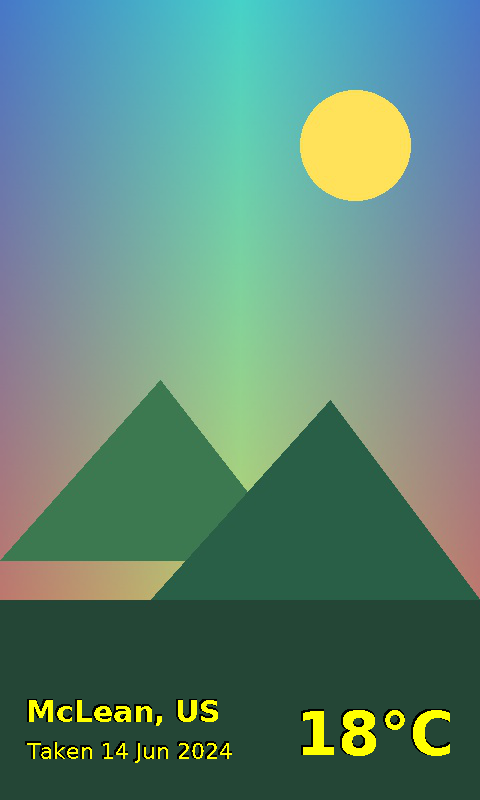
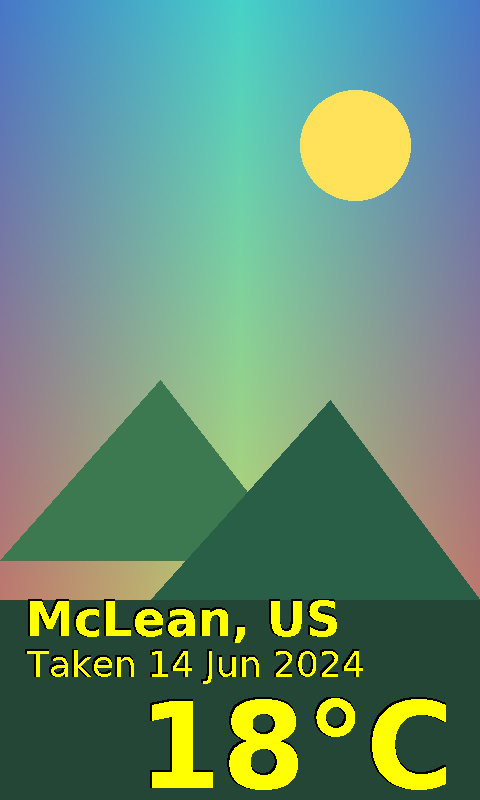
Enlarge footer fonts and install DejaVu on the Pi
- Place 48 px, date 36 px and temperature 120 px, all yellow.
- Use a taller 220 px footer area, full-width metadata and a bottom-aligned
  temperature.
- Install fonts-dejavu-core in install.sh so the Pi does not fall back to
  Pillow's tiny bitmap font.
- Update docs, screenshot and footer-height test.

Changed region(s): [[0.0312, 0.75, 0.9375, 1.0]]

diff --git a/photoframe/photoframe.py b/photoframe/photoframe.py
@@ -68,7 +68,7 @@ DEFAULT_CONFIG = {
     "state_dir": ".state",
     "refresh_minutes": 20,
     "display": {"rotate": 90, "saturation": 0.5},
-    "footer": {"height": 120, "outline": True},
+    "footer": {"height": 220, "outline": True},
     "fonts": {"bold": "", "regular": ""},
     "metadata": {
         "reverse_geocode": True,
@@ -235,11 +235,11 @@ def load_fonts(config):
     bold_path = _first_existing([config["fonts"].get("bold"), *BOLD_FONT_CANDIDATES])
     regular_path = _first_existing([config["fonts"].get("regular"), *REGULAR_FONT_CANDIDATES])
     if bold_path is None or regular_path is None:
-        LOG.warning("No TrueType font found; falling back to a very small built-in font")
+        LOG.warning("No TrueType font found; using a tiny fallback. Install fonts-dejavu-core.")
     return Fonts(
-        place=_load_font(bold_path, 30),
-        date=_load_font(regular_path, 22),
-        temp=_load_font(bold_path, 60),
+        place=_load_font(bold_path, 48),
+        date=_load_font(regular_path, 36),
+        temp=_load_font(bold_path, 120),
         placeholder_title=_load_font(bold_path, 30),
         placeholder_body=_load_font(regular_path, 17),
         placeholder_path=_load_font(regular_path, 15),
@@ -473,12 +473,12 @@ def validate_config(config):
 
     footer = _ensure_dict(config, "footer")
     try:
-        footer_height = int(footer.get("height", 120))
+        footer_height = int(footer.get("height", 220))
     except (TypeError, ValueError):
-        footer_height = 120
-    if footer_height != 0 and footer_height < 100:
-        LOG.warning("footer.height must be 0 or at least 100; using 120")
-        footer_height = 120
+        footer_height = 220
+    if footer_height != 0 and footer_height < 220:
+        LOG.warning("footer.height must be 0 or at least 220; using 220")
+        footer_height = 220
     footer["height"] = max(0, min(footer_height, 400))
     footer["outline"] = bool(footer.get("outline", True))
 
@@ -893,7 +893,8 @@ def draw_footer(image, meta, weather, config, fonts):
 
     temp_width = text_width(fonts.temp, temperature)
     temp_x = WIDTH - 26 - temp_width
-    left_max = max(180, temp_x - 26 - 16)
+    temp_height = text_metrics(fonts.temp, temperature)[1]
+    temp_y = top + height - temp_height - 10
 
     if meta is not None:
         place = meta.place
@@ -903,7 +904,7 @@ def draw_footer(image, meta, weather, config, fonts):
             paste_text(
                 image,
                 (26, top + 20),
-                truncate_text(place, fonts.place, left_max),
+                truncate_text(place, fonts.place, WIDTH - 52),
                 fonts.place,
                 text_color,
                 outline=outline,
@@ -917,14 +918,14 @@ def draw_footer(image, meta, weather, config, fonts):
         if date_text:
             paste_text(
                 image,
-                (26, top + 62),
-                truncate_text(date_text, fonts.date, left_max),
+                (26, top + 70),
+                truncate_text(date_text, fonts.date, WIDTH - 52),
                 fonts.date,
                 text_color,
                 outline=outline,
             )
 
-    paste_text(image, (temp_x, top + 30), temperature, fonts.temp, text_color, outline=outline)
+    paste_text(image, (temp_x, temp_y), temperature, fonts.temp, text_color, outline=outline)
 
 
 def render_frame(photo_path, meta, weather, config, fonts):

diff --git a/tests/test_photoframe.py b/tests/test_photoframe.py
@@ -158,7 +158,7 @@ def test_load_config_overrides_and_validation(tmp_path):
     assert config["refresh_minutes"] == 5
     assert config["display"]["rotate"] == 270
     assert config["display"]["saturation"] == 1.0
-    assert config["footer"]["height"] == 120  # 40 is too small, falls back
+    assert config["footer"]["height"] == 220  # 40 is too small, falls back
     assert config["weather"]["units"] == "imperial"
     assert config["weather"]["retry_delay_seconds"] == 0.0
     assert config["_image_dir"] == tmp_path / "photos"

diff --git a/photoframe/README.md b/photoframe/README.md
@@ -94,7 +94,7 @@ Other useful settings:
 | `refresh_minutes` | `20` | Minutes between photo changes. |
 | `display.rotate` | `90` | `90` or `270`. Use `270` if the frame is upside down. |
 | `display.saturation` | `0.5` | 0–1 colour saturation. Lower is more muted. |
-| `footer.height` | `120` | Footer area height in pixels; `0` hides the footer. |
+| `footer.height` | `220` | Footer area height in pixels; `0` hides it, otherwise minimum 220. |
 | `footer.outline` | `true` | Thin black outline around the yellow footer text. |
 | `metadata.reverse_geocode` | `true` | Look up place names from photo GPS. |
 | `metadata.coordinates_fallback` | `true` | Show coordinates if no place name is available. |
@@ -192,7 +192,7 @@ not accumulate drift.
 ## Photo metadata
 
 The footer shows the place and capture date, plus a large temperature, all in
-yellow and overlaid directly on the bottom 120 px of the photo. A thin black
+yellow and overlaid directly on the bottom 220 px of the photo. A thin black
 outline keeps it readable on bright images; set `footer.outline` to `false` for
 plain yellow text. Adjust `footer.height`, or set it to `0` to hide the footer
 entirely.

diff --git a/README.md b/README.md
@@ -284,7 +284,8 @@ Quick reference:
   `weather.admin1` in `photoframe/config.json` (default: McLean, Virginia, US);
 - rotation interval: `refresh_minutes` (default 20);
 - orientation: `display.rotate` (`90` default, `270` if upside down);
-- footer: `footer.height` (default 120 px, `0` hides it) and `footer.outline`
+- footer: `footer.height` (default 220 px; `0` hides it, otherwise minimum 220)
+  and `footer.outline`
   (default true — thin black outline around the yellow text);
 - service: `inky-photoframe.service`.
 
